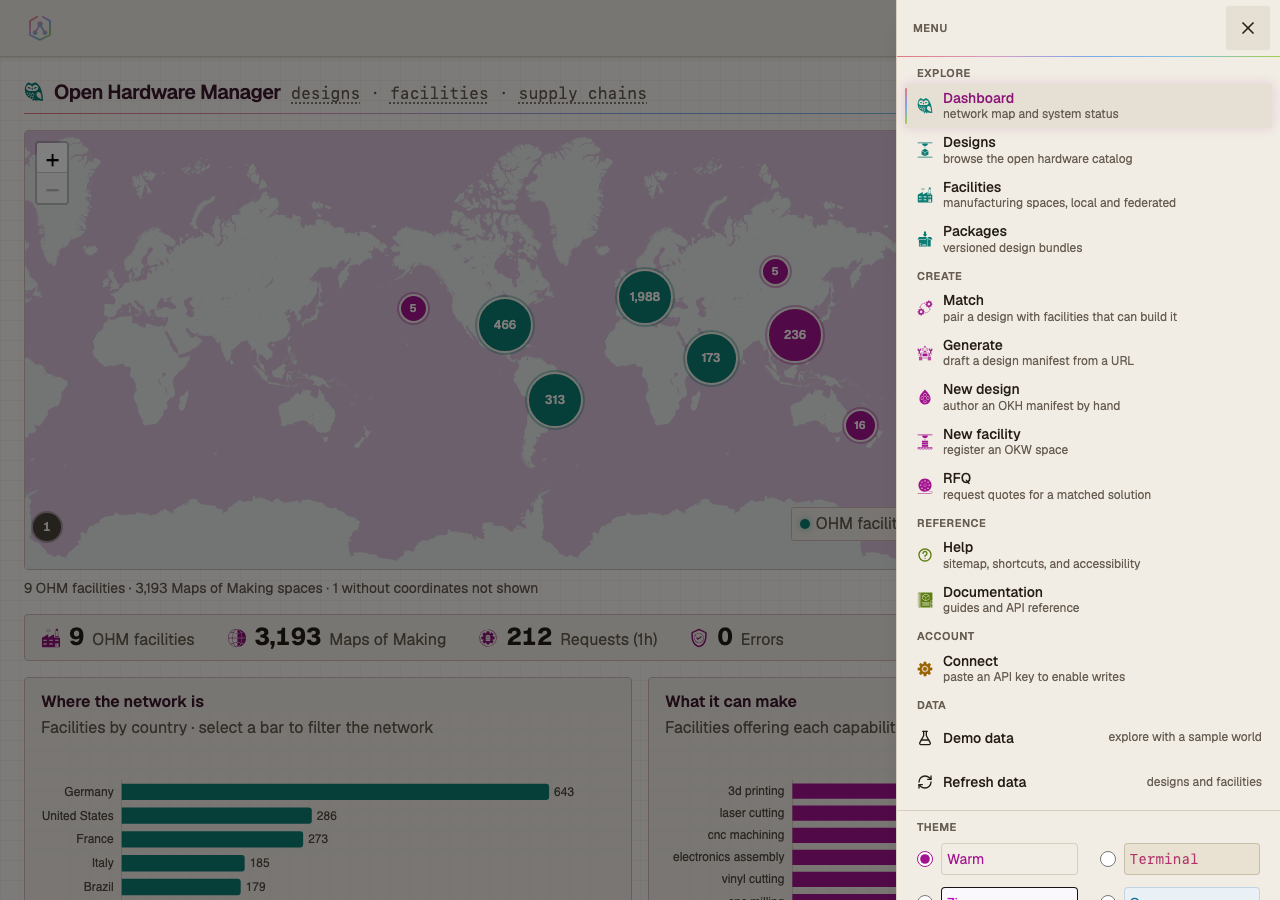
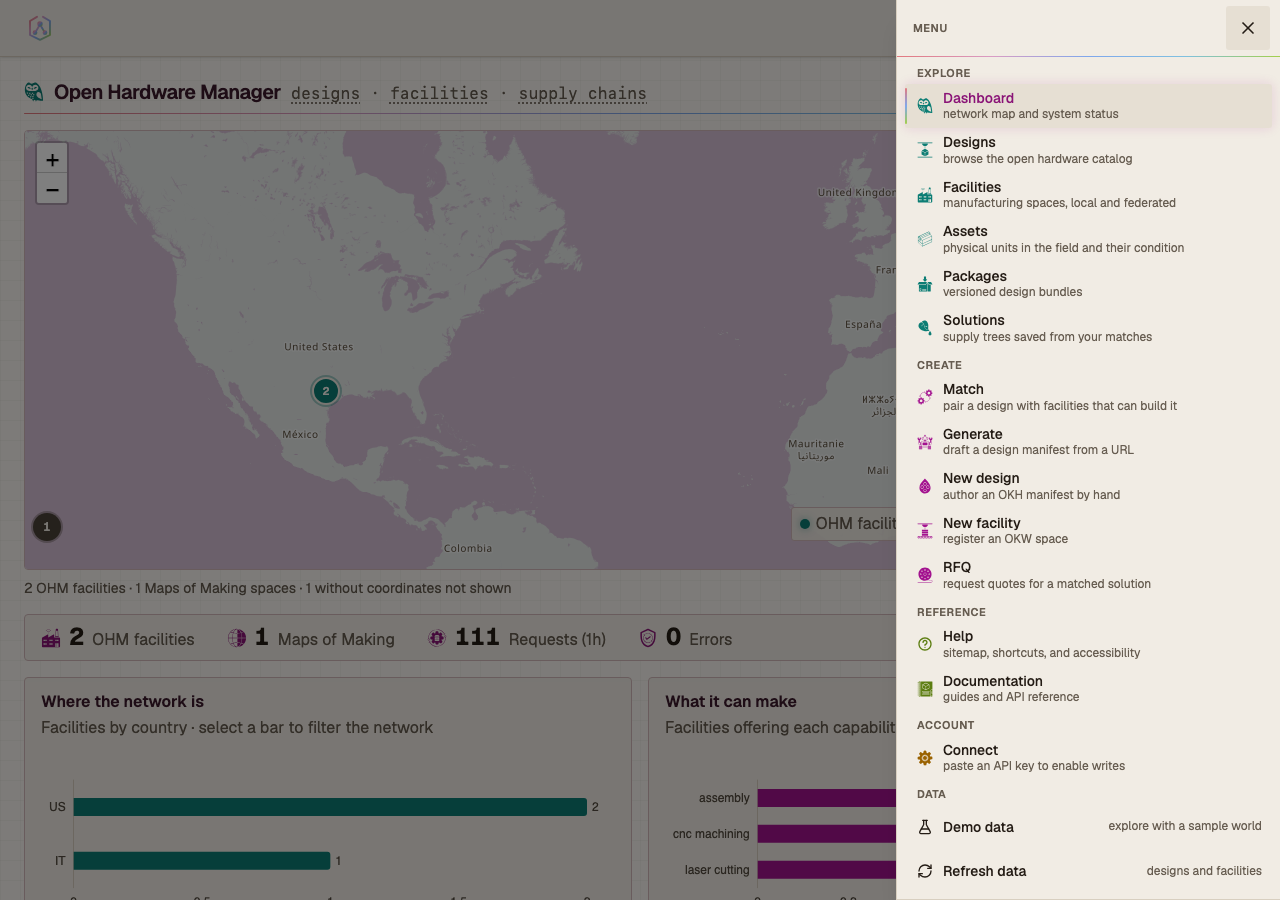
Docs: the README describes what the app now reaches, and how that is enforced
Counts move to 647 unit / 227 Playwright. A capability table names every web
surface and what it is for, and says plainly that anything the API serves and
the app deliberately does not call is recorded with a reason rather than
merely absent — which is the property the new coverage gate maintains, and the
one a reader cannot infer from a screenshot.

Assets joins the browse surfaces it belongs with. The keyboard table gains
`g a`, and the prose gains the drawer/sitemap distinction /icons forced: the
drawer is a menu of places worth going, /help is the sitemap and lists the
unlisted routes too, which is why a route can leave the menu and keep its
chord.

Navigation gains the anchored-crumb rule — a page with no tab strip has no
other route to its own parts, which is exactly when a term should link — and
Accessibility gains the triage form, where the a11y rules and the data model
meet: three-option controls because `Optional[bool]` has three answers and a
checkbox has two.

Screenshots regenerated from the mocked world. The drawer capture is the one
worth looking at — Assets in Explore, Icons gone from Reference.

diff --git a/README.md b/README.md
@@ -43,12 +43,17 @@ yourself.
 
 A Next.js App Router application, served by the API. Ten themes in light and
 dark, drivable by keyboard, and laid out down to 360px. Those three are enforced
-by **573 unit tests** and **193 Playwright specs**, including an axe matrix over
+by **647 unit tests** and **227 Playwright specs**, including an axe matrix over
 all twenty theme variants and a narrow-viewport lane at 360px and 768px.
 
 One hamburger sitemap reaches every route, grouped by purpose, each entry
 carrying a role line. Header, drawer, and footer are a single implementation, so
 a new page inherits its chrome.
+
+Six browse surfaces: designs, facilities, **assets**, packages, solutions, and
+the dashboard that frames them. Assets are the physical units built from those
+designs — what condition each is in, what triage concluded, and which of its
+parts another unit could use.
 
 ![The sitemap drawer, grouped by purpose](docs/assets/ux/sitemap-drawer.png)
 
@@ -104,12 +109,19 @@ land on a 404 wherever it does not.
 | `?` | open the menu, with the full reference |
 | `Esc` | close any menu or dialog, returning focus to the control that opened it |
 | `t` / `m` | next theme / light-dark |
-| `g` then `d` `k` `f` `m` `p` `r` `s` | dashboard, designs, facilities, match, packages, RFQ, settings |
+| `g` then `d` `k` `f` `m` `a` `p` `r` `s` | dashboard, designs, facilities, match, assets, packages, RFQ, settings |
 | `g` then `g` `n` `w` `h` `o` | generate from URL, new design, new facility, help, documentation |
 | `g` then `l` `i` | solutions, icons |
 
 Shortcuts are suppressed while typing in an input, textarea, select, or
 contenteditable, so a search box takes `g` as a letter.
+
+The drawer and `/help` are not the same list, and the difference is deliberate:
+the drawer is a menu — places worth going — while `/help` is the sitemap, and it
+renders the unlisted routes too. `/icons` is the case that forced the
+distinction. It documents the glyph set rather than being somewhere to go, so it
+left the menu for a single mark in the drawer's footer; it keeps its chord, and
+`/help` is where that chord is explained.
 
 ### Navigation inside the page
 
@@ -118,6 +130,14 @@ by `PageHero` and `Breadcrumb` rather than written out per view. A term links
 only where the crumb is the only route to its target: Settings names
 `session · keys · identities` directly above a tab bar of the same three, so
 those stay text rather than becoming a duplicate control.
+
+Where a term names a section rather than a sibling page, it links to that
+section. A page with no tab strip has no other route to its own parts, which is
+exactly the condition for a crumb term to lead somewhere: an asset's
+`components · triage report · sourcing` and the collection page's
+`export · compare · import` are both the page's own structure, addressable.
+Terms that genuinely name no place still stay text, and each one carries the
+reason beside it.
 
 Trails carry `aria-label="Breadcrumb"`, mark their last term `aria-current="page"`,
 and meet the 24px target minimum — they sit in a flex container, so the WCAG
@@ -138,6 +158,17 @@ is computed against the surface they sit on.
 The chrome provides focus trapping, `aria-current`, skip-to-content, 44px
 targets, and animation behind `prefers-reduced-motion`. `/help` renders its
 keyboard and accessibility tables from the same constants the app uses.
+
+The densest control surface is asset triage — one row per component, each with
+a condition control and up to three follow-up questions — and it is where the
+accessibility rules and the data model meet. Those follow-ups are
+`Optional[bool]` on the server, where `null` is not `false`: the server infers a
+null flag from the condition and the design's own flags, and reads a stated
+`false` as the technician overruling that. A checkbox cannot say which of those
+it means, so they are three-option controls, shown only where the condition
+implies work and cleared when it stops implying it. One `<fieldset>` wraps the
+whole checklist rather than one per component, and every choice is a
+`SegmentedControl` — arrow-key operable, full-width at 360px.
 
 ### Responsive
 
@@ -167,6 +198,13 @@ labels below 640px.
   rather than a build flag.
 - Loading states animate the logo from the same geometry that generates the
   favicon.
+- Every path the API serves is either called by the frontend or carries a row
+  saying why not — `tests/parity/test_api_coverage.py`. `fe_api_prefixes` asks
+  whether the frontend touches a *tag*, which one call satisfies; this asks per
+  *endpoint*, and the difference was 91 of 158 paths. The gate runs both ways:
+  an endpoint nothing calls and no row explains fails it, and so does a recorded
+  endpoint the UI has since started calling — so the backlog shrinks by
+  deletion rather than accreting.
 
 The eight screenshots above are generated: `npx playwright test
 --project=assets` recaptures them from the mocked fixture world.
@@ -185,6 +223,25 @@ code path they do against real data.
 ```bash
 make seed-demo   # then restart the API — list responses are cached for an hour
 ```
+
+### What the app reaches
+
+Every OHM capability with a web surface, and where it lives:
+
+| Surface | What it does |
+|---|---|
+| `/okh`, `/okh/collection` | Browse designs; move a whole catalogue between nodes with a compare step before any write |
+| `/facilities` | The network, local and federated, on a map and as a list |
+| `/assets` | Physical units in the field: triage a unit component by component, resolve where its parts come from, and claim a part from another unit |
+| `/match` | Pair a design with facilities, in a chosen domain or a detected one |
+| `/solutions`, `/visualization` | Saved supply trees, what they are made of, and when they expire |
+| `/packages` | Built archives, local and remote, with pin and signature verification |
+| `/settings/matching` | The capability rules and taxonomies behind every match — validate a file, see what importing it would change, then import |
+| `/settings/llm` | Provider keys, and whether generation will actually work right now |
+
+Anything the API serves that is deliberately *not* here — the federation wire
+protocol, bulk-destructive operations, endpoints superseded by another — is
+recorded with its reason in `tests/parity/manifest.py`, not merely absent.
 
 ---
 
